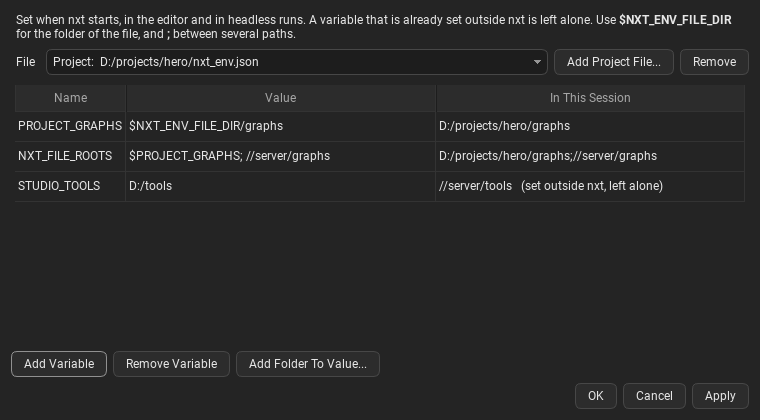
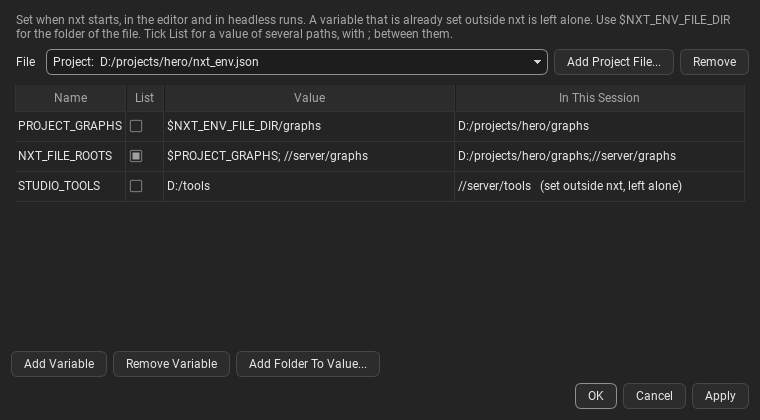
Show the Environment Variables column titles whole
With no rows the Name and List columns were as wide as their titles
alone, and in a host whose style pads a header more than its size hint
says, the titles were cut to a few letters. They now have a minimum
width.

The file box was sized by its longest path, so one file deep in a
project made the dialog as wide as that path. It now elides.

The picture of the dialog in the docs shows the List column.

(cherry picked from commit 43ff7db74f47b3d28e95e3bc18e8d337d9ac214c)

diff --git a/nxt_editor/env_dialog.py b/nxt_editor/env_dialog.py
@@ -94,6 +94,10 @@ def portable_path(path, env_file):
     return path
 
 
+# Room around a column title, on top of the width of its text.
+HEADER_PADDING = 36
+
+
 class EnvFilesDialog(QtWidgets.QDialog):
     """The env files nxt reads, one at a time, as a table of variables."""
     applied = QtCore.Signal()
@@ -124,6 +128,11 @@ class EnvFilesDialog(QtWidgets.QDialog):
         self.file_box = QtWidgets.QComboBox()
         self.file_box.setSizePolicy(QtWidgets.QSizePolicy.Expanding,
                                     QtWidgets.QSizePolicy.Fixed)
+        # Sized by its longest path, one file deep in a project made the
+        # whole dialog as wide as that path.
+        self.file_box.setSizeAdjustPolicy(
+            QtWidgets.QComboBox.AdjustToMinimumContentsLengthWithIcon)
+        self.file_box.setMinimumContentsLength(30)
         self.file_box.currentIndexChanged.connect(self.on_file_chosen)
         file_row.addWidget(self.file_box)
         self.add_file_button = QtWidgets.QPushButton('Add Project File...')
@@ -151,6 +160,12 @@ class EnvFilesDialog(QtWidgets.QDialog):
         header.setSectionResizeMode(LIST_COL,
                                     QtWidgets.QHeaderView.ResizeToContents)
         header.setSectionResizeMode(VALUE_COL, QtWidgets.QHeaderView.Stretch)
+        # With no rows these two are as wide as their titles alone, and in
+        # a host whose style pads a header more than it says, the titles
+        # were cut short.
+        header.ensurePolished()
+        header.setMinimumSectionSize(
+            header.fontMetrics().horizontalAdvance('Name') + HEADER_PADDING)
         header.setSectionResizeMode(NOW_COL, QtWidgets.QHeaderView.Stretch)
         self.table.verticalHeader().hide()
         self.table.setSelectionBehavior(QtWidgets.QTableWidget.SelectRows)

diff --git a/nxt_editor/test/test_env_dialog.py b/nxt_editor/test/test_env_dialog.py
@@ -200,6 +200,22 @@ class Looks(EnvDialogCase):
         self.assertIn(theme.TEXT_DIM, dialog.intro.styleSheet())
         self.assertNotIn('<b>', dialog.intro.text())
 
+    def test_an_empty_table_has_room_for_its_column_titles(self):
+        dialog = self.dialog()
+        dialog.show()
+        app.processEvents()
+        header = dialog.table.horizontalHeader()
+        for column in (env_dialog.NAME_COL, env_dialog.LIST_COL):
+            title = dialog.table.horizontalHeaderItem(column).text()
+            room = header.sectionSize(column) -                 header.fontMetrics().horizontalAdvance(title)
+            self.assertGreaterEqual(room, 30, title)
+
+    def test_a_long_path_does_not_widen_the_dialog(self):
+        deep = os.path.join(self.folder, *['a_folder_with_a_long_name'] * 6)
+        os.environ[env_files.ENV_FILES_ENV_VAR] = os.path.join(deep, 'e.json')
+        dialog = self.dialog()
+        self.assertLess(dialog.minimumSizeHint().width(), 760)
+
 
 class WithAnOlderCore(unittest.TestCase):
 

diff --git a/docs/user_docs/docs/whats_new.md b/docs/user_docs/docs/whats_new.md
@@ -173,6 +173,10 @@ Each item links to the part of the docs that explains it in full.
 - Two quick clicks on a Layer Manager toggle count as two: the second was
   taken for a double click and did nothing.
 
+**Fixed**
+- The Environment Variables dialog shows its Name and List column titles
+  whole in an empty table, and a long file path no longer makes it wide.
+
 ## nxt_editor 4.12.0
 
 **New**
